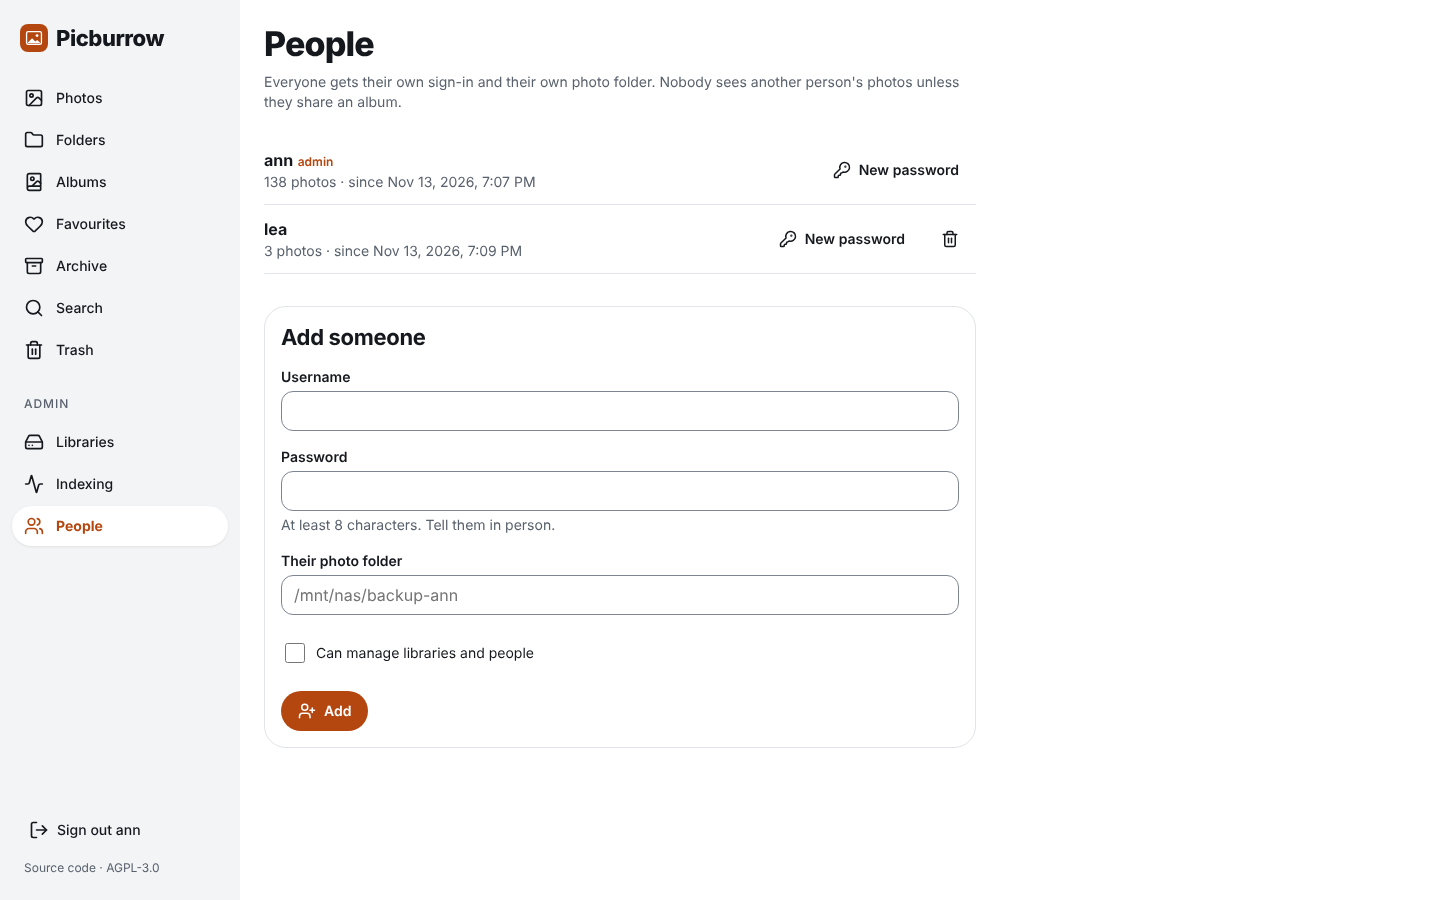
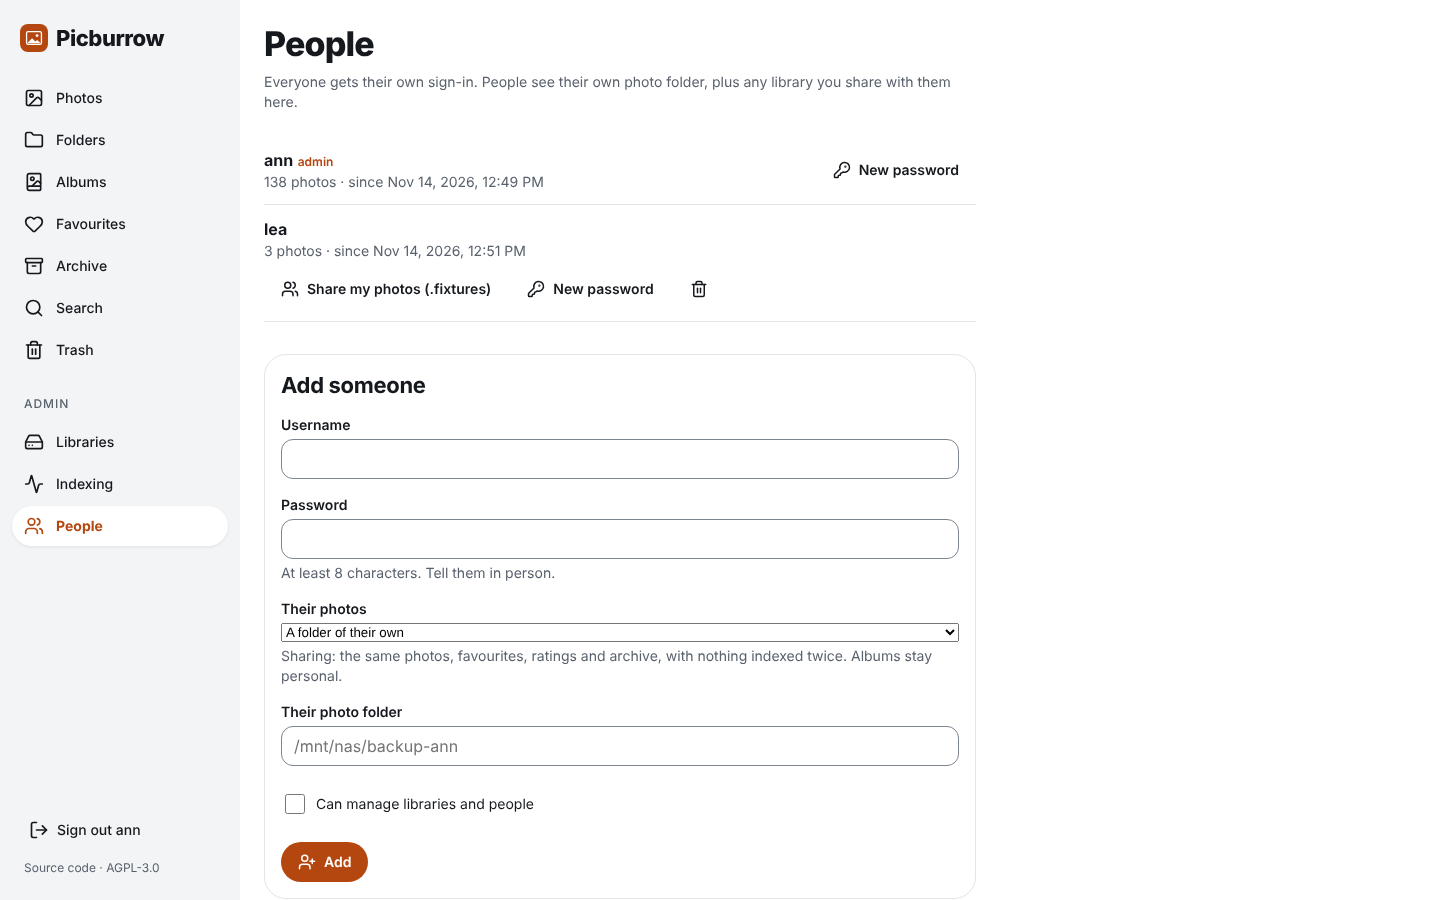
People: share a library with someone who already has an account, or stop
Sharing used to be possible only when the account was created, and a person
had either a folder of their own or the shared one. An admin can now share a
library they see with any existing person, who keeps their own folder, and
can stop again. Stopping takes that library's photos out of the person's
albums and album covers. The owner of a library always sees it.

PATCH /api/users/{id} {library_id, shared}; GET /api/users lists each
person's libraries. TestShareWithExistingAccount; e2e P-1 extended.

Claude-Session: https://claude.ai/code/session_01PH99K8F4EezHs6i4AhQLDN

diff --git a/web/src/routes/admin/users/+page.svelte b/web/src/routes/admin/users/+page.svelte
@@ -2,9 +2,9 @@
   import { t } from '$lib/i18n';
   import { api, formatWhen, type User } from '$lib/api';
   import { say } from '$lib/state.svelte';
-  import { UserPlus, KeyRound, Trash2 } from '@lucide/svelte';
+  import { UserPlus, KeyRound, Trash2, Users } from '@lucide/svelte';
 
-  type Row = User & { created_at: number; assets: number };
+  type Row = User & { created_at: number; assets: number; libraries: number[] };
   let users = $state<Row[] | null>(null);
   let me = $state<User | null>(null);
   let error = $state('');
@@ -44,6 +44,18 @@
       say((err as Error).message);
     }
   }
+  // let someone who already has an account see one of my libraries too, or stop
+  async function share(u: Row, lib: { id: number; name: string }) {
+    const shared = !u.libraries.includes(lib.id);
+    if (!shared && !confirm(t('Stop sharing {lib} with {name}? Its photos also leave their albums.', { lib: lib.name, name: u.username }))) return;
+    try {
+      await api(`/api/users/${u.id}`, { method: 'PATCH', body: { library_id: lib.id, shared } });
+      say(shared ? t('{name} now sees {lib} too', { name: u.username, lib: lib.name }) : t('{name} no longer sees {lib}', { name: u.username, lib: lib.name }));
+      load();
+    } catch (err) {
+      say((err as Error).message);
+    }
+  }
   async function remove(u: Row) {
     if (!confirm(t('Delete {name}? Their albums and share links go too. Their photo files stay on disk.', { name: u.username }))) return;
     await api(`/api/users/${u.id}`, { method: 'DELETE' });
@@ -56,7 +68,7 @@
 
 <div class="page">
   <h1>{t('People')}</h1>
-  <p class="muted intro">{t("Everyone gets their own sign-in and their own photo folder. Nobody sees another person's photos unless they share an album.")}</p>
+  <p class="muted intro">{t("Everyone gets their own sign-in. People see their own photo folder, plus any library you share with them here.")}</p>
   {#if error}<p class="error-msg" role="alert">{error}</p>{/if}
   {#if users}
     <ul class="people">
@@ -65,6 +77,11 @@
           <div><strong>{u.username}</strong>{#if u.is_admin}{' '}<span class="tag">{t('admin')}</span>{/if}
             <div class="muted">{u.assets.toLocaleString()} photos · since {formatWhen(u.created_at)}</div></div>
           <div class="actions">
+            {#if u.id !== me?.id}
+              {#each libs as l (l.id)}
+                <button class="btn ghost" onclick={() => share(u, l)} aria-pressed={u.libraries.includes(l.id)}><Users aria-hidden="true" />{u.libraries.includes(l.id) ? t('Stop sharing ({name})', { name: l.name }) : t('Share my photos ({name})', { name: l.name })}</button>
+              {/each}
+            {/if}
             <button class="btn ghost" onclick={() => reset(u)}><KeyRound aria-hidden="true" />{t('New password')}</button>
             {#if u.id !== me?.id}<button class="btn ghost" onclick={() => remove(u)} aria-label={t('Delete {name}', { name: u.username })}><Trash2 aria-hidden="true" /></button>{/if}
           </div>
@@ -101,7 +118,7 @@
   .people { list-style: none; padding: 0; margin: 0 0 var(--space-7); }
   .people li { display: flex; flex-wrap: wrap; gap: var(--space-3); justify-content: space-between; align-items: center; padding: var(--space-4) 0; border-bottom: 1px solid var(--border); }
   .tag { font: 600 var(--text-xs) var(--font-sans); color: var(--accent); }
-  .actions { display: flex; gap: var(--space-1); }
+  .actions { display: flex; flex-wrap: wrap; gap: var(--space-1); }
   .actions :global(svg), form :global(svg) { width: 18px; height: 18px; }
   .card { display: grid; gap: var(--space-5); padding: var(--space-5); border: 1px solid var(--border); border-radius: var(--radius-lg); }
   .check { display: flex; gap: var(--space-3); align-items: center; font: var(--text-sm) var(--font-sans); min-height: var(--touch-target); }

diff --git a/web/src/lib/fr.ts b/web/src/lib/fr.ts
@@ -58,7 +58,7 @@ export const fr: Record<string, string> = {
   "downloads on": "téléchargements autorisés",
   "ends {date}": "expire le {date}",
   "Every photo in the library is still on disk.": "Toutes les photos de la bibliothèque sont encore sur le disque.",
-  "Everyone gets their own sign-in and their own photo folder. Nobody sees another person's photos unless they share an album.": "Chacun a sa propre connexion et son propre dossier de photos. Personne ne voit les photos d'un autre, sauf si un album est partagé.",
+  "Everyone gets their own sign-in. People see their own photo folder, plus any library you share with them here.": "Chacun a sa propre connexion. Chaque personne voit son propre dossier de photos, ainsi que les bibliothèques que vous partagez avec elle ici.",
   "Exit full screen": "Quitter le plein écran",
   "Expected JSON": "JSON attendu",
   "Exposure": "Exposition",
@@ -193,6 +193,10 @@ export const fr: Record<string, string> = {
   "Share \"{name}\"": "Partager « {name} »",
   "Share link": "Lien de partage",
   "Share my photos ({name})": "Partager mes photos ({name})",
+  "Stop sharing ({name})": "Ne plus partager ({name})",
+  "Stop sharing {lib} with {name}? Its photos also leave their albums.": "Ne plus partager {lib} avec {name} ? Ses photos quittent aussi les albums de cette personne.",
+  "{name} now sees {lib} too": "{name} voit maintenant aussi {lib}",
+  "{name} no longer sees {lib}": "{name} ne voit plus {lib}",
   "shared": "partagé",
   "Shared album": "Album partagé",
   "Shared with Picburrow, free software.": "Partagé avec Picburrow, logiciel libre.",

diff --git a/e2e/f10-live-ratings-trash-people.spec.ts b/e2e/f10-live-ratings-trash-people.spec.ts
@@ -104,6 +104,17 @@ test('P-1 an admin adds a family member with their own folder; they see only the
   await expect(lea.getByRole('link', { name: 'People' })).toHaveCount(0); // not an admin
   expect((await lea.request.get('/api/users')).status()).toBe(403);
 
+  // lea already has an account and a folder: the admin lets her see the family library too, then stops
+  const leaCount = async () => (await (await lea.request.get('/api/timeline/buckets')).json()).reduce((n: number, b: { count: number }) => n + b.count, 0);
+  const row = page.getByRole('listitem').filter({ hasText: 'lea' });
+  await row.getByRole('button', { name: /^Share my photos/ }).click();
+  await expect(page.getByRole('status').filter({ hasText: /lea now sees .+ too/ })).toBeVisible();
+  expect(await leaCount()).toBeGreaterThan(3);
+  await axe(page);
+  await row.getByRole('button', { name: /^Stop sharing/ }).click(); // the confirm is accepted by the guard
+  await expect(page.getByRole('status').filter({ hasText: /lea no longer sees/ })).toBeVisible();
+  expect(await leaCount()).toBe(3);
+
   answerPrompt(page, 'another password');
   await page.getByRole('listitem').filter({ hasText: 'lea' }).getByRole('button', { name: 'New password' }).click();
   await expect(page.getByRole('status').filter({ hasText: 'New password set for lea' })).toBeVisible();

diff --git a/server/app_test.go b/server/app_test.go
@@ -1204,8 +1204,8 @@ func TestOnThisDay(t *testing.T) {
 	}
 	add(1, "2019.jpg", "2019-05-17 08:00:00", "")
 	add(1, "2023.jpg", "2023-05-17 23:59:59", "")
-	add(1, "today.jpg", "2024-05-17 10:00:00", "")    // this year: not a memory yet
-	add(1, "later.jpg", "2025-05-17 10:00:00", "")    // a camera with a wrong clock
+	add(1, "today.jpg", "2024-05-17 10:00:00", "") // this year: not a memory yet
+	add(1, "later.jpg", "2025-05-17 10:00:00", "") // a camera with a wrong clock
 	add(1, "daybefore.jpg", "2023-05-16 23:59:59", "")
 	add(1, "othermonth.jpg", "2023-06-17 10:00:00", "")
 	add(1, "archived.jpg", "2022-05-17 10:00:00", "is_archived = 1")
@@ -1253,6 +1253,82 @@ func TestLoginRateLimitBehindProxy(t *testing.T) {
 	}
 	if code := try("9.9.9.9, 198.51.100.7"); code != 401 {
 		t.Fatalf("faking an earlier hop must not matter: %d", code)
+	}
+}
+
+// Someone who already has an account and a folder of their own is given the family library too, then loses it again.
+func TestShareWithExistingAccount(t *testing.T) {
+	a, srv := newTestApp(t)
+	ann := client(t)
+	post(t, ann, srv.URL+"/api/setup", `{"username":"ann","password":"correct horse","path":"`+t.TempDir()+`"}`)
+	waitScan(t, a)
+	for _, body := range []string{
+		`{"username":"carl","password":"another pass","path":"` + t.TempDir() + `"}`,
+		`{"username":"dora","password":"another pass","is_admin":true,"path":"` + t.TempDir() + `"}`,
+	} {
+		if code := post(t, ann, srv.URL+"/api/users", body); code != 200 {
+			t.Fatalf("add %s: %d", body, code)
+		}
+	}
+	waitScan(t, a) // adding someone with a folder starts a scan, which would drop rows that have no file
+	for i := 0; i < 3; i++ {
+		a.db.Exec(`insert into assets (library_id, path, dir, size, mtime, quick_hash, type, mime, taken_local, thumbs_at)
+			values (1, ?, '/p', 1, 1, x'00', 'image', 'image/jpeg', '2024-01-01 00:00:00', 1)`, fmt.Sprintf("/p/%d.jpg", i))
+	}
+	carl, dora := client(t), client(t)
+	post(t, carl, srv.URL+"/api/login", `{"username":"carl","password":"another pass"}`)
+	post(t, dora, srv.URL+"/api/login", `{"username":"dora","password":"another pass"}`)
+	sees := func() int {
+		var month []tile
+		get(t, carl, srv.URL+"/api/timeline?month=2024-01", &month)
+		return len(month)
+	}
+	if sees() != 0 {
+		t.Fatal("carl sees ann's photos before anything is shared")
+	}
+	users := srv.URL + "/api/users/"
+	if code := patch(t, dora, users+"2", `{"library_id":1,"shared":true}`); code != 404 {
+		t.Fatalf("an admin sharing a library she can't see herself = %d, want 404", code)
+	}
+	if code := patch(t, carl, users+"2", `{"library_id":2,"shared":true}`); code != 403 {
+		t.Fatalf("a non-admin sharing = %d, want 403", code)
+	}
+	if code := patch(t, ann, users+"99", `{"library_id":1,"shared":true}`); code != 404 {
+		t.Fatalf("sharing with nobody = %d, want 404", code)
+	}
+	if code := patch(t, ann, users+"2", `{"library_id":1,"shared":true}`); code != 204 || sees() != 3 {
+		t.Fatalf("share: %d, carl sees %d photos, want 204 and 3", code, sees())
+	}
+	var libs int
+	a.db.QueryRow("select count(*) from library_members where user_id = 2").Scan(&libs)
+	if libs != 2 {
+		t.Fatalf("carl is in %d libraries, want his own and ann's", libs)
+	}
+	var list []userRow
+	get(t, ann, srv.URL+"/api/users", &list)
+	if len(list) != 3 || len(list[1].Libraries) != 2 {
+		t.Fatalf("people list: %+v, want carl with 2 libraries", list)
+	}
+	// carl puts a shared photo in an album of his; when sharing stops it leaves the album
+	var month []tile
+	get(t, carl, srv.URL+"/api/timeline?month=2024-01", &month)
+	if code := post(t, carl, srv.URL+"/api/albums", `{"name":"trip","ids":[`+itoa(month[0].ID)+`]}`); code != 200 && code != 201 {
+		t.Fatalf("album: %d", code)
+	}
+	var inAlbums, kept int
+	if a.db.QueryRow("select count(*) from album_assets").Scan(&inAlbums); inAlbums != 1 {
+		t.Fatalf("%d photos in carl's album, want 1", inAlbums)
+	}
+	if code := patch(t, ann, users+"1", `{"library_id":1,"shared":false}`); code != 400 {
+		t.Fatalf("taking the library from its owner = %d, want 400", code)
+	}
+	if code := patch(t, ann, users+"2", `{"library_id":1,"shared":false}`); code != 204 || sees() != 0 {
+		t.Fatalf("stop sharing: %d, carl still sees %d photos", code, sees())
+	}
+	a.db.QueryRow("select count(*) from album_assets").Scan(&inAlbums)
+	a.db.QueryRow("select count(*) from assets where library_id = 1").Scan(&kept)
+	if inAlbums != 0 || kept != 3 {
+		t.Fatalf("after stopping: %d photos left in carl's album (want 0), ann has %d photos (want 3)", inAlbums, kept)
 	}
 }
 

diff --git a/server/admin.go b/server/admin.go
@@ -1,6 +1,7 @@
 package main
 
 import (
+	"database/sql"
 	"encoding/json"
 	"log"
 	"net/http"
@@ -71,13 +72,15 @@ func (a *App) purgeTrash() {
 
 type userRow struct {
 	User
-	Created int64 `json:"created_at"`
-	Assets  int   `json:"assets"`
+	Created   int64   `json:"created_at"`
+	Assets    int     `json:"assets"`
+	Libraries []int64 `json:"libraries"` // the libraries this person sees
 }
 
 func (a *App) getUsers(w http.ResponseWriter, r *http.Request) {
 	rows, err := a.db.Query(`select u.id, u.username, u.is_admin, u.created_at,
-		(select count(*) from assets x where x.library_id in (select library_id from library_members where user_id = u.id) and x.missing_at is null)
+		(select count(*) from assets x where x.library_id in (select library_id from library_members where user_id = u.id) and x.missing_at is null),
+		(select json_group_array(library_id) from library_members where user_id = u.id)
 		from users u order by u.id`)
 	if err != nil {
 		serverError(w, err)
@@ -87,10 +90,12 @@ func (a *App) getUsers(w http.ResponseWriter, r *http.Request) {
 	out := []userRow{}
 	for rows.Next() {
 		var u userRow
-		if err := rows.Scan(&u.ID, &u.Username, &u.IsAdmin, &u.Created, &u.Assets); err != nil {
+		var libs string
+		if err := rows.Scan(&u.ID, &u.Username, &u.IsAdmin, &u.Created, &u.Assets, &libs); err != nil {
 			serverError(w, err)
 			return
 		}
+		json.Unmarshal([]byte(libs), &u.Libraries)
 		out = append(out, u)
 	}
 	writeJSON(w, out)
@@ -178,11 +183,17 @@ func (a *App) patchUser(w http.ResponseWriter, r *http.Request) {
 	id, ok := pathID(r)
 	var in struct {
 		Password string `json:"password"`
+		Library  int64  `json:"library_id"` // with shared: let this person see one of the admin's libraries, or stop
+		Shared   *bool  `json:"shared"`
 	}
 	if !ok || !readJSON(w, r, &in) {
 		if !ok {
 			httpError(w, http.StatusNotFound, "No such user")
 		}
+		return
+	}
+	if in.Shared != nil {
+		a.shareLibrary(w, userFrom(r).ID, id, in.Library, *in.Shared)
 		return
 	}
 	if len(in.Password) < 8 {
@@ -200,6 +211,53 @@ func (a *App) patchUser(w http.ResponseWriter, r *http.Request) {
 		return
 	}
 	a.db.Exec("delete from sessions where user_id = ? and user_id != ?", id, userFrom(r).ID) // sign them out everywhere
+	w.WriteHeader(http.StatusNoContent)
+}
+
+// shareLibrary lets an existing person see a library the admin sees (as postUser does for a new person), or
+// stops it. They keep their own folder. Stopping also takes that library's photos out of their albums.
+func (a *App) shareLibrary(w http.ResponseWriter, admin, id, lib int64, shared bool) {
+	var owner int64
+	if err := a.db.QueryRow(`select l.owner_id from libraries l join library_members m on m.library_id = l.id
+		where l.id = ? and m.user_id = ?`, lib, admin).Scan(&owner); err != nil {
+		httpError(w, http.StatusNotFound, "No such library")
+		return
+	}
+	var exists int
+	if a.db.QueryRow("select 1 from users where id = ?", id).Scan(&exists) != nil {
+		httpError(w, http.StatusNotFound, "No such user")
+		return
+	}
+	var err error
+	switch {
+	case shared:
+		_, err = a.db.Exec("insert or ignore into library_members (library_id, user_id) values (?, ?)", lib, id)
+	case id == owner:
+		httpError(w, http.StatusBadRequest, "The person who owns a library always sees it")
+		return
+	default:
+		var tx *sql.Tx
+		if tx, err = a.db.Begin(); err != nil {
+			break
+		}
+		defer tx.Rollback()
+		if _, err = tx.Exec("delete from library_members where library_id = ? and user_id = ?", lib, id); err != nil {
+			break
+		}
+		if _, err = tx.Exec(`delete from album_assets where album_id in (select id from albums where owner_id = ?)
+			and asset_id in (select id from assets where library_id = ?)`, id, lib); err != nil {
+			break
+		}
+		if _, err = tx.Exec(`update albums set cover_asset_id = null where owner_id = ?
+			and cover_asset_id in (select id from assets where library_id = ?)`, id, lib); err != nil {
+			break
+		}
+		err = tx.Commit()
+	}
+	if err != nil {
+		serverError(w, err)
+		return
+	}
 	w.WriteHeader(http.StatusNoContent)
 }
 

diff --git a/replica/fixes.md b/replica/fixes.md
@@ -157,7 +157,7 @@ Ranked by evidence times cheapness.
 | 9 | **New photos appear within minutes**: every 15 minutes, a scan if any folder's modified time changed; the 03:00 full scan stays | M5, U1 | S | **done** 2026-11-14 (`TestFoldersChanged`) |
 | 10 | **A tested guide for getting phone photos into the folder**, iPhone and Android, one sync tool each, linked from the empty timeline after setup | the evidence against our approach, H5 | S (writing) + phones to test on | `/replica-launch` docs; can't be tested from a build box |
 | 11 | **On this day**: a button on the timeline when earlier years have photos from today, opening a page of them | M6, U3 (thin) | S | **done** 2026-11-14 (`TestOnThisDay`) |
-| 12 | **Share a library with an account that already exists**, and let a person have their own folder plus a shared one | M1 (thin, 3 sources) | S | `/replica-build` |
+| 12 | **Share a library with an account that already exists**, and let a person have their own folder plus a shared one | M1 (thin, 3 sources) | S | **done** 2026-11-14 (`TestShareWithExistingAccount`, e2e P-1) |
 | 13 | **Rotate**, stored in the database and applied to previews (files stay untouched) | M7 (thin) | S | `/replica-build` |
 | 14 | **Read XMP sidecars**: keywords, ratings and descriptions written by digiKam and others, searchable | M8 (thin) | M | `/replica-build` |
 | 15 | **The real-hardware pass**: 1 GB Pi 3, real iPhone library, Safari | the H2 claim rests on it | — | `/replica-test` |

diff --git a/replica/build-log.md b/replica/build-log.md
@@ -30,6 +30,7 @@ Checked by `server/app_test.go` (Go, real files), `e2e/slice.cjs` and `e2e/miles
 | — | live photos, ratings | 2026-11-13 | done | Google/Samsung motion photos (video embedded in the JPEG) | first schema migration; clips must be hidden from every list, and still reachable through share links |
 | — | new photos picked up within 15 minutes (fixes.md fix 9) | 2026-11-14 | done | an open timeline page shows them after a reload; the 15-minute timer itself is not exercised by a test, only the check it calls | a file still being uploaded grows without touching its folder's time, so recent files are watched too; a quick check running past 03:00 would have skipped the night's scan and trash purge |
 | S20 | On this day (fixes.md fix 11) | 2026-11-14 | done | no e2e spec (the fixture library has nothing dated today); checked by `TestOnThisDay` and by hand at 1440 and 390 px | "today" is the browser's date, not the server's: a Pi left on UTC would be a day off in the evening |
+| S16 | People: share a library with someone who already has an account, or stop (fixes.md fix 12) | 2026-11-14 | done | one-way partner sharing as Immich has it (here everyone in a library can favourite, rate and archive) | stopping must also take that library's photos out of the person's albums and album covers, or they would list photos they can no longer open |
 
 ## Backend findings
 
